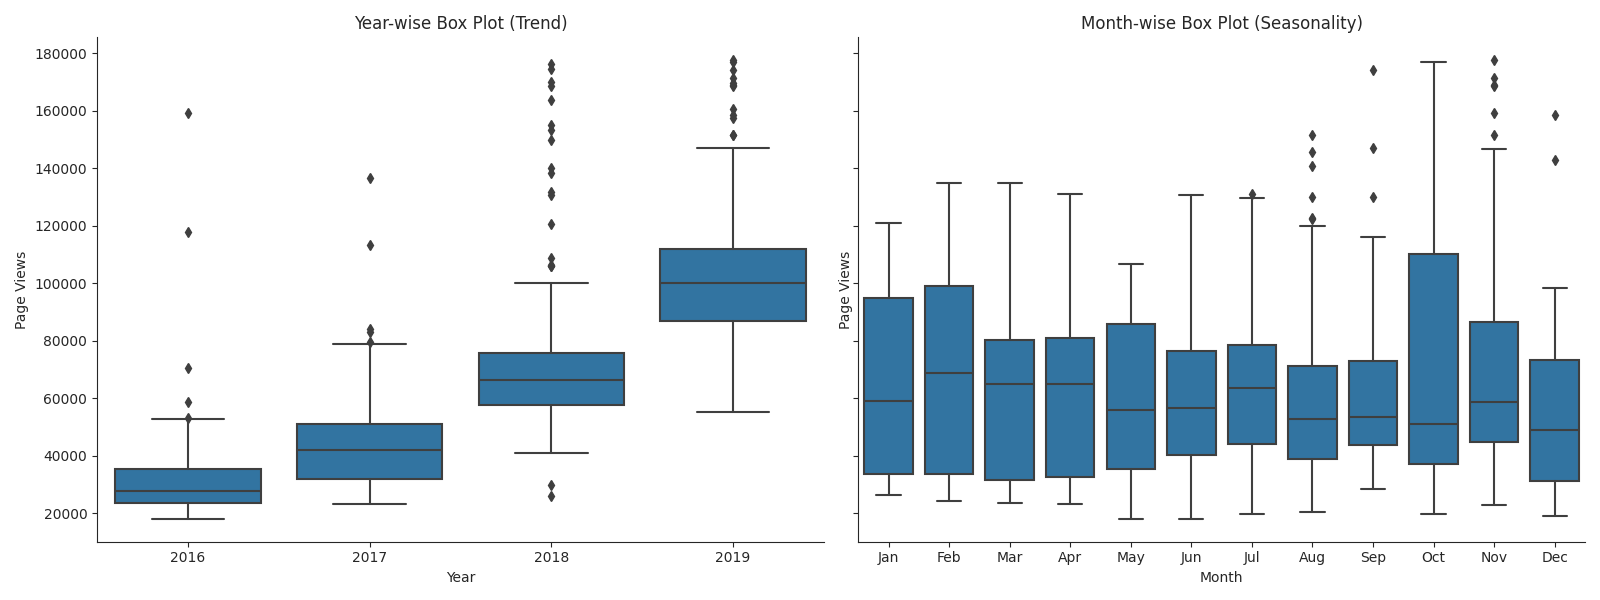
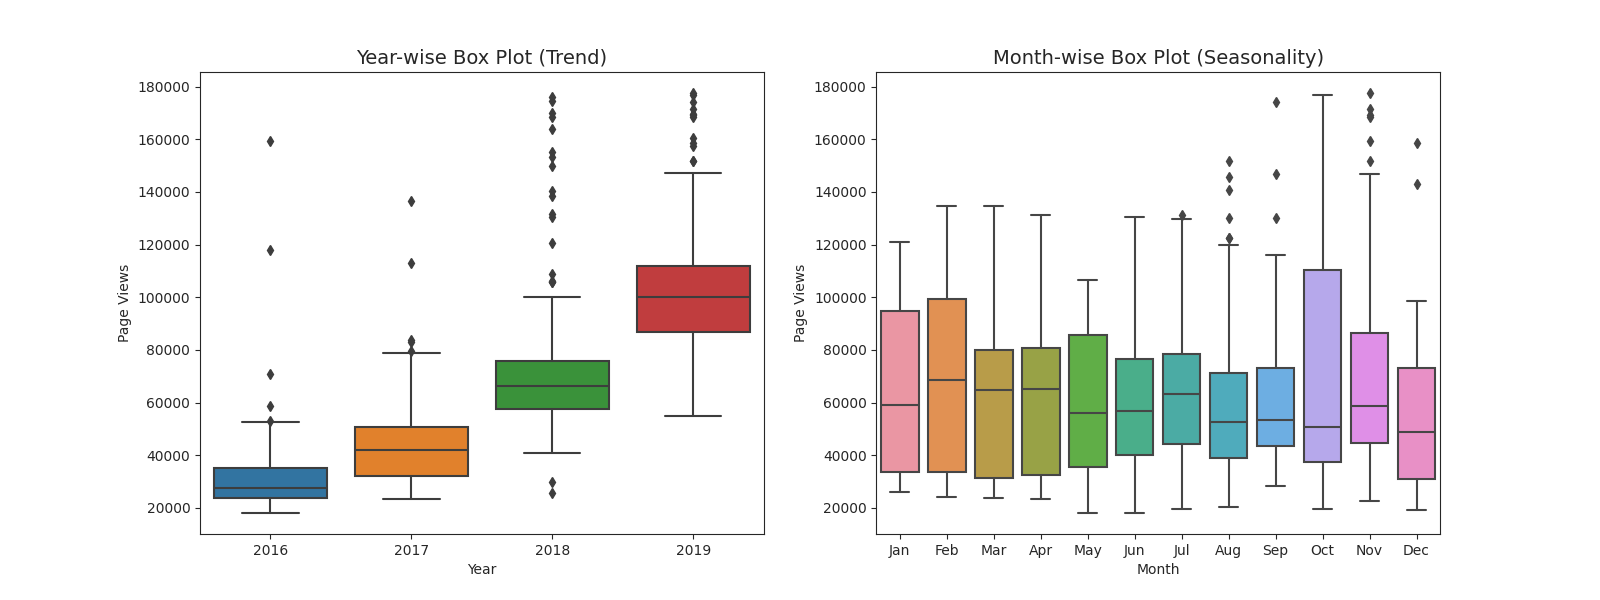
update final project to commit

diff --git a/time_series_visualizer.py b/time_series_visualizer.py
@@ -1,6 +1,7 @@
 import matplotlib.pyplot as plt
 import pandas as pd
 import seaborn as sns
+import warnings
 from pandas.plotting import register_matplotlib_converters
 register_matplotlib_converters()
 
@@ -114,19 +115,25 @@ def draw_box_plot():
     df_box["Page Views"] = df_box["value"]
     df_box["Month"] = df_box["month"]
     df_box["Year"] = df_box["year"]
-    g = sns.PairGrid(df_box, y_vars=["Page Views"], x_vars=["Year", "Month"], palette="bright")
-    g.map(fixed_boxplot)
-    fig = g.fig
-    fig.set_figheight(6)
-    fig.set_figwidth(16)
-    fig.axes[0].set_ylabel('Page Views')
-    fig.axes[1].set_ylabel('Page Views')
-    fig.axes[0].set_title('Year-wise Box Plot (Trend)')
-    fig.axes[1].set_title('Month-wise Box Plot (Seasonality)')
-    plt.tight_layout()
+    y_vars="Page Views"
+    x_vars=["Year", "Month"]
+    warnings.filterwarnings('ignore')
+    #créer une figure avec 2 Axes sur la même ligne
+    fig, ax = plt.subplots(1,2,figsize=(16,6))
+    sns.boxplot(y='Page Views',x="Year", data=df_box,ax=ax[0])
+    ax[0].set_title('Year-wise Box Plot (Trend)',fontsize = 14)
+    ax[0].set_xlabel('Year')
+    ax[0].set_ylabel('Page Views')
+    
+    
+    sns.boxplot(y='Page Views',x="Month", data=df_box, ax=ax[1])
+    ax[1].set_title('Month-wise Box Plot (Seasonality)',fontsize = 14)
+    ax[1].set_xlabel('Month')
+    ax[1].set_ylabel('Page Views')
 
-
-
+    #ajouter un texte à une figure   
+    # fig.text(0.4, 0.95, 'une variable numerique', fontsize = 16,color='r')
+    warnings.filterwarnings('default')
 
     # Save image and return fig (don't change this part)
     fig.savefig('box_plot.png')
